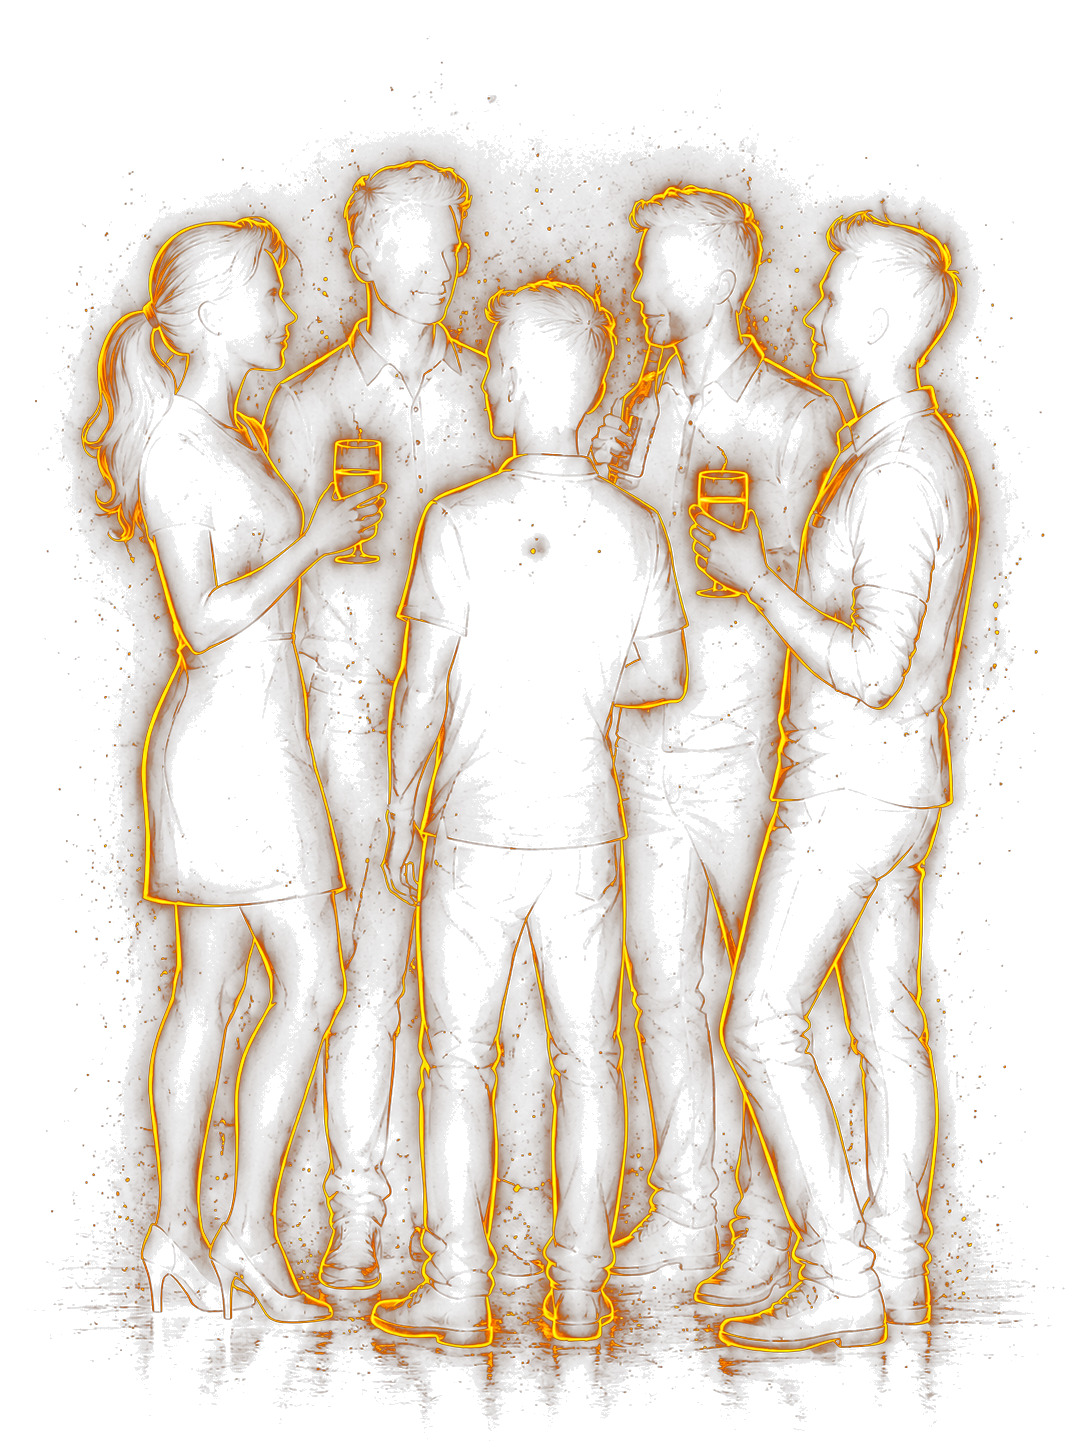
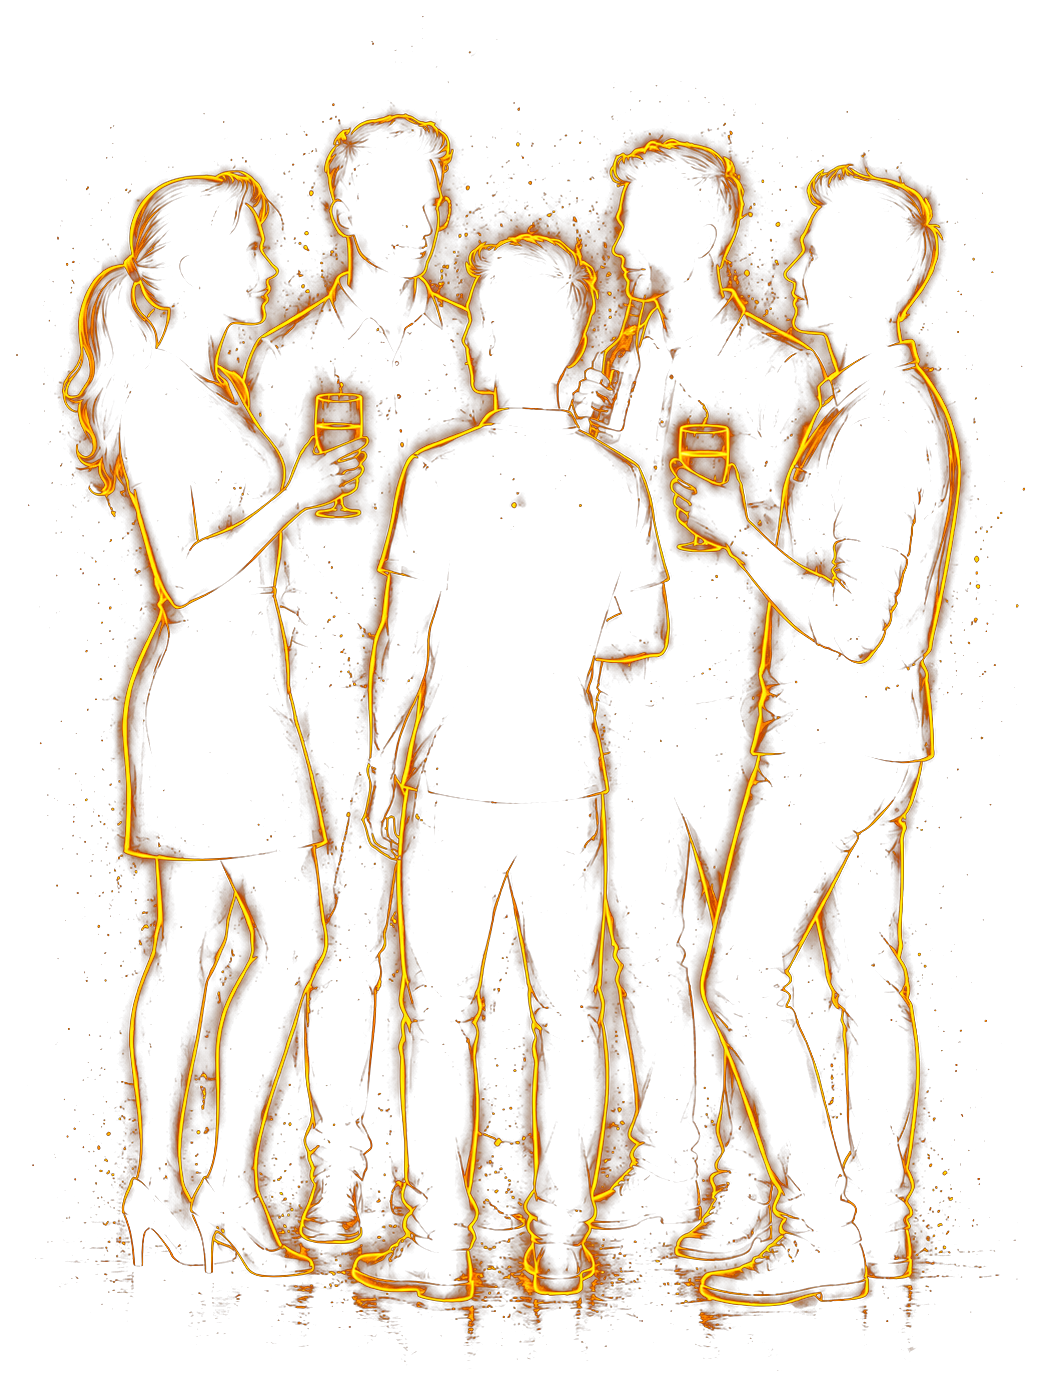
Add files via upload

diff --git a/alkobarometr.html b/alkobarometr.html
@@ -352,7 +352,7 @@
 </style></head><body>
 
 
-<div style="position:fixed;left:8px;bottom:6px;font-size:11px;color:#6a6a72;z-index:50;font-family:monospace;letter-spacing:1px">v19</div>
+<div style="position:fixed;left:8px;bottom:6px;font-size:11px;color:#6a6a72;z-index:50;font-family:monospace;letter-spacing:1px">v20</div>
 <div class="fit"><div class="screen" id="screen">
 
   <div class="top">

diff --git a/index.html b/index.html
@@ -3040,7 +3040,7 @@ if ('serviceWorker' in navigator) {
 })();
 </script>
 <style>#abmFrameWrap{position:fixed;inset:0;z-index:99999;display:none;background:#0b0b0d}#abmFrameWrap.on{display:block}#abmFrame{border:0;width:100%;height:100%;display:block}</style>
-<div id="abmFrameWrap"><iframe id="abmFrame" src="alkobarometr.html?v=19" title="Алкобарометр"></iframe></div>
+<div id="abmFrameWrap"><iframe id="abmFrame" src="alkobarometr.html?v=20" title="Алкобарометр"></iframe></div>
 <script>(function(){var lastCart=[];function hide(){document.getElementById('abmFrameWrap').classList.remove('on');}window.openBarometer=function(){if(typeof cart==="undefined"||!cart.length){if(typeof showToast==="function")showToast("Корзина пуста");return;}lastCart=cart;document.getElementById('abmFrameWrap').classList.add('on');var f=document.getElementById('abmFrame');try{f.contentWindow.postMessage({type:'abm-cart',cart:lastCart},'*');}catch(e){}};window.addEventListener('message',function(e){var d=e.data||{};if(d.type==='abm-ready'){var f=document.getElementById('abmFrame');try{f.contentWindow.postMessage({type:'abm-cart',cart:lastCart},'*');}catch(_){}}if(d.type==='abm-close'){hide();}if(d.type==='abm-checkout'){hide();if(typeof goToOrder==='function')goToOrder();}});})();</script>
 </body>
 </html>

diff --git a/sw.js b/sw.js
@@ -1,5 +1,5 @@
 // AlcoMarket service worker
-const CACHE = 'alcomarket-v19';
+const CACHE = 'alcomarket-v20';
 const APP_SHELL = [
   './',
   './index.html',